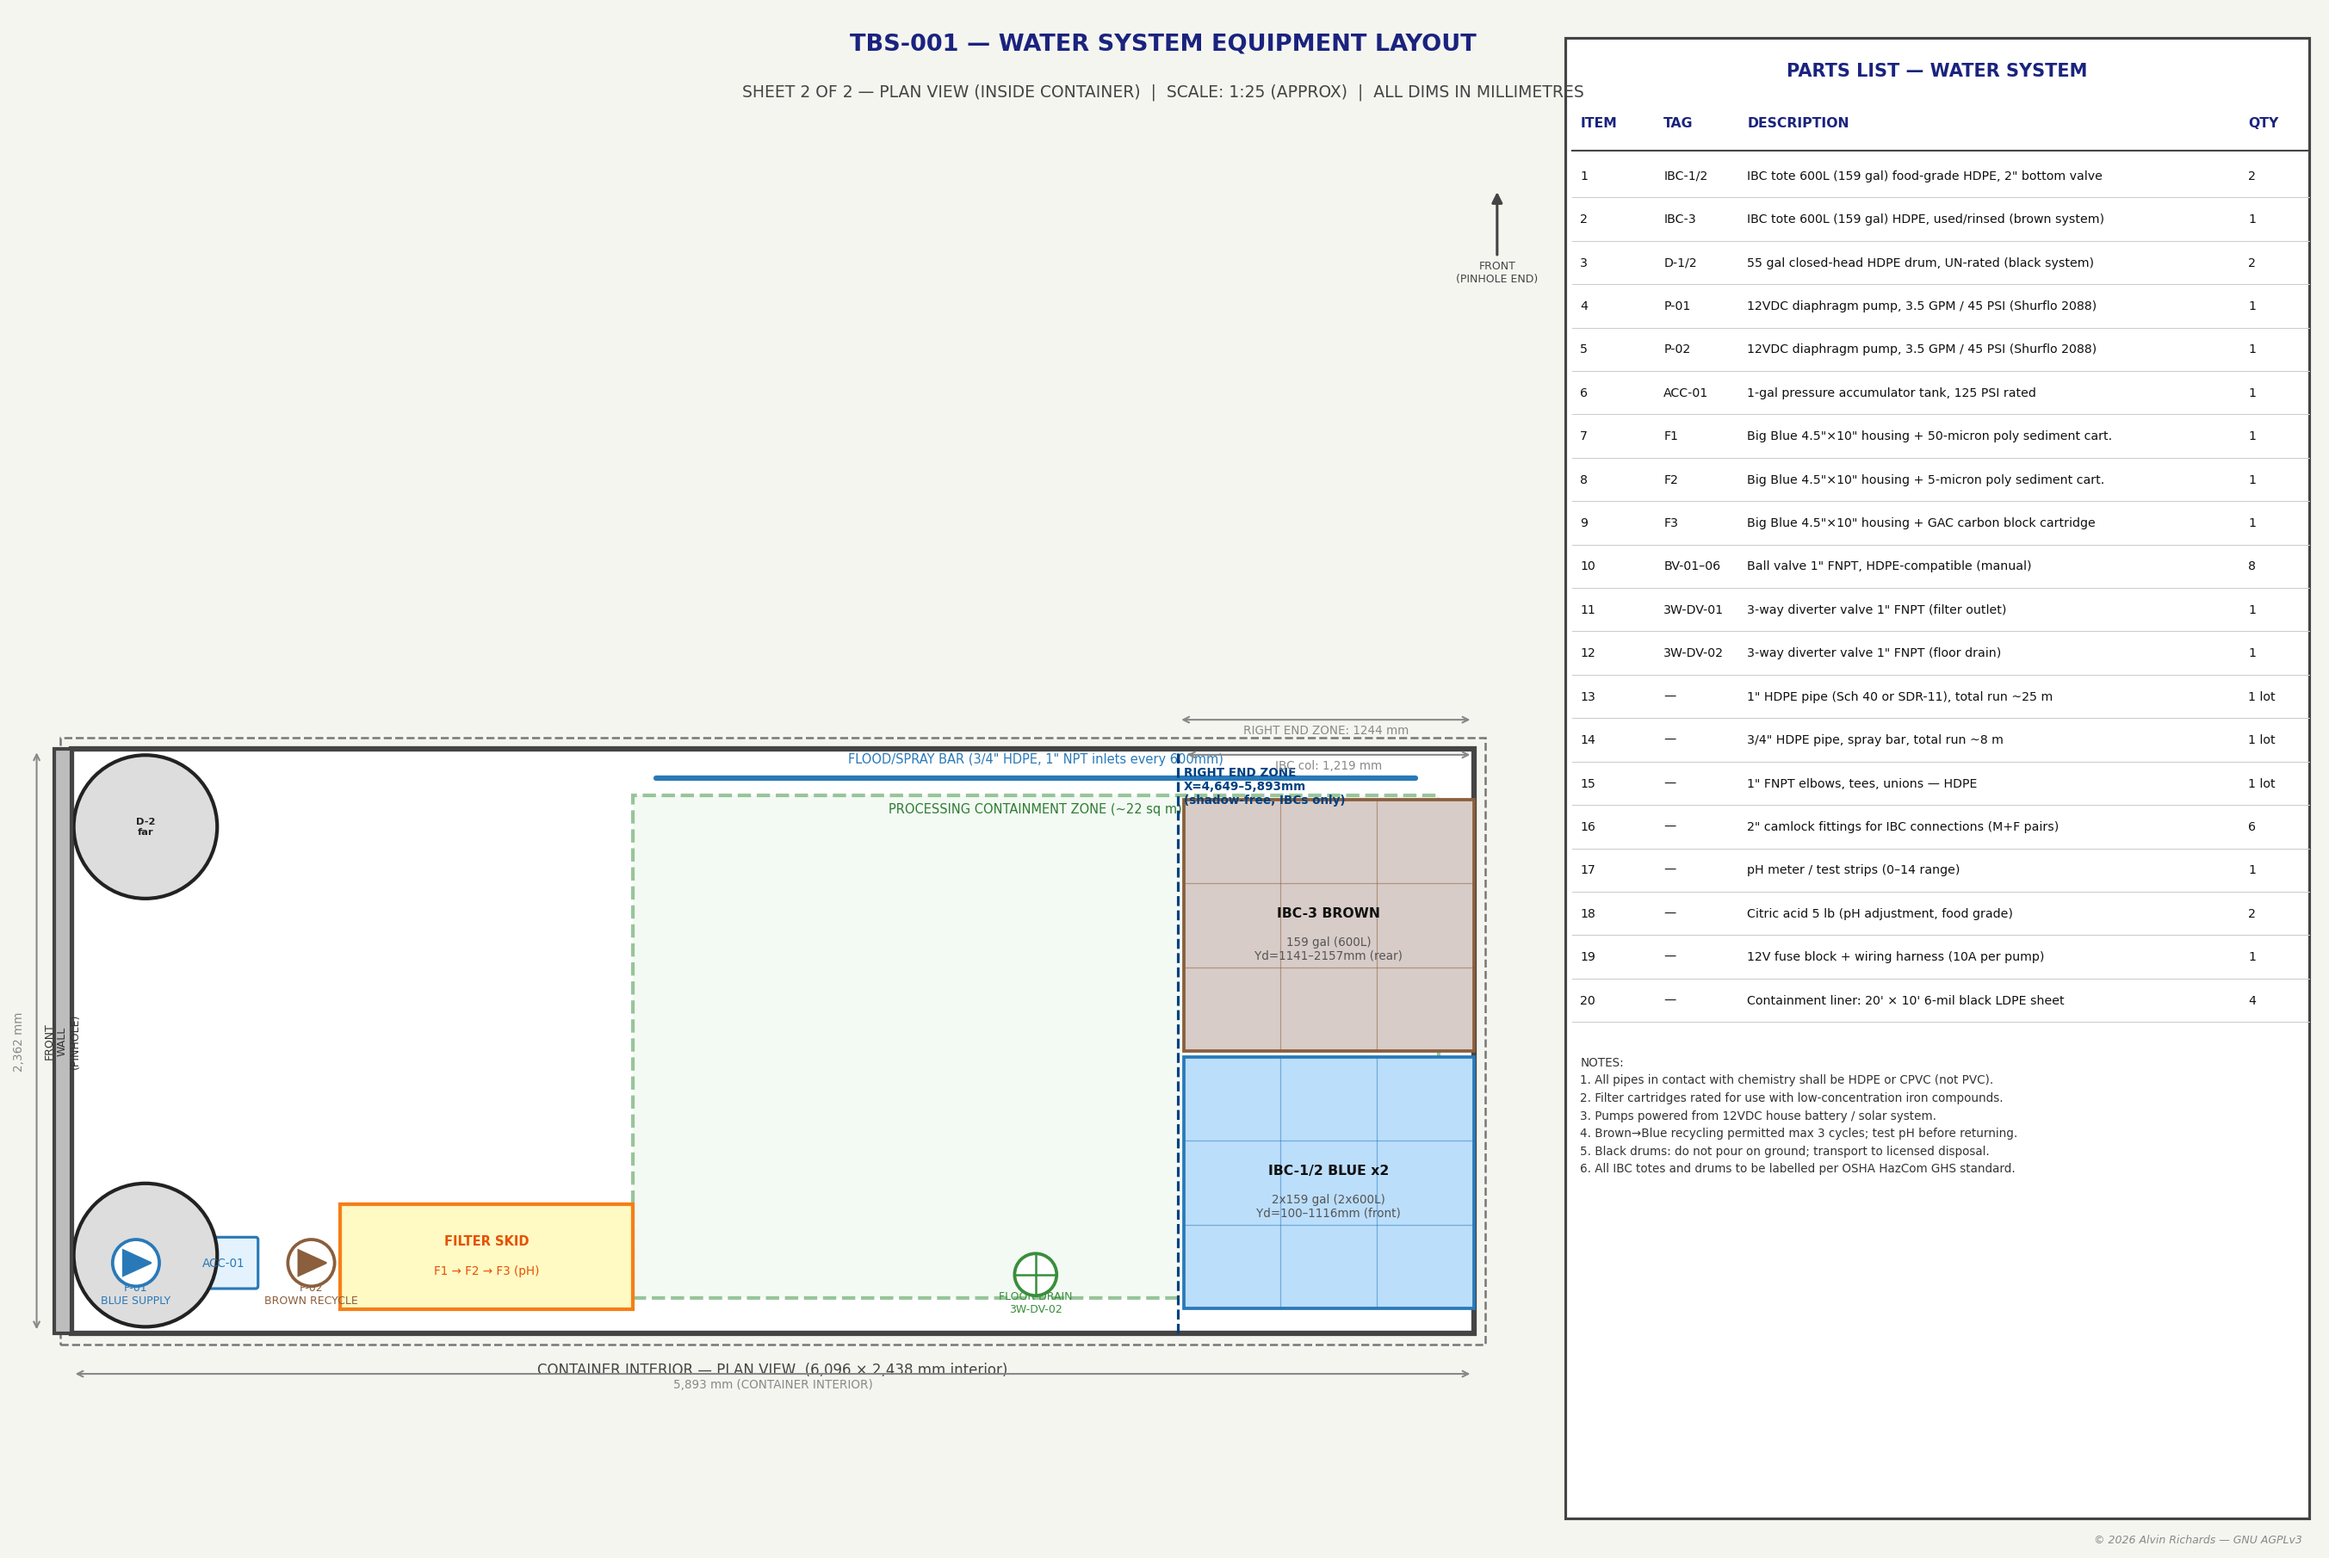
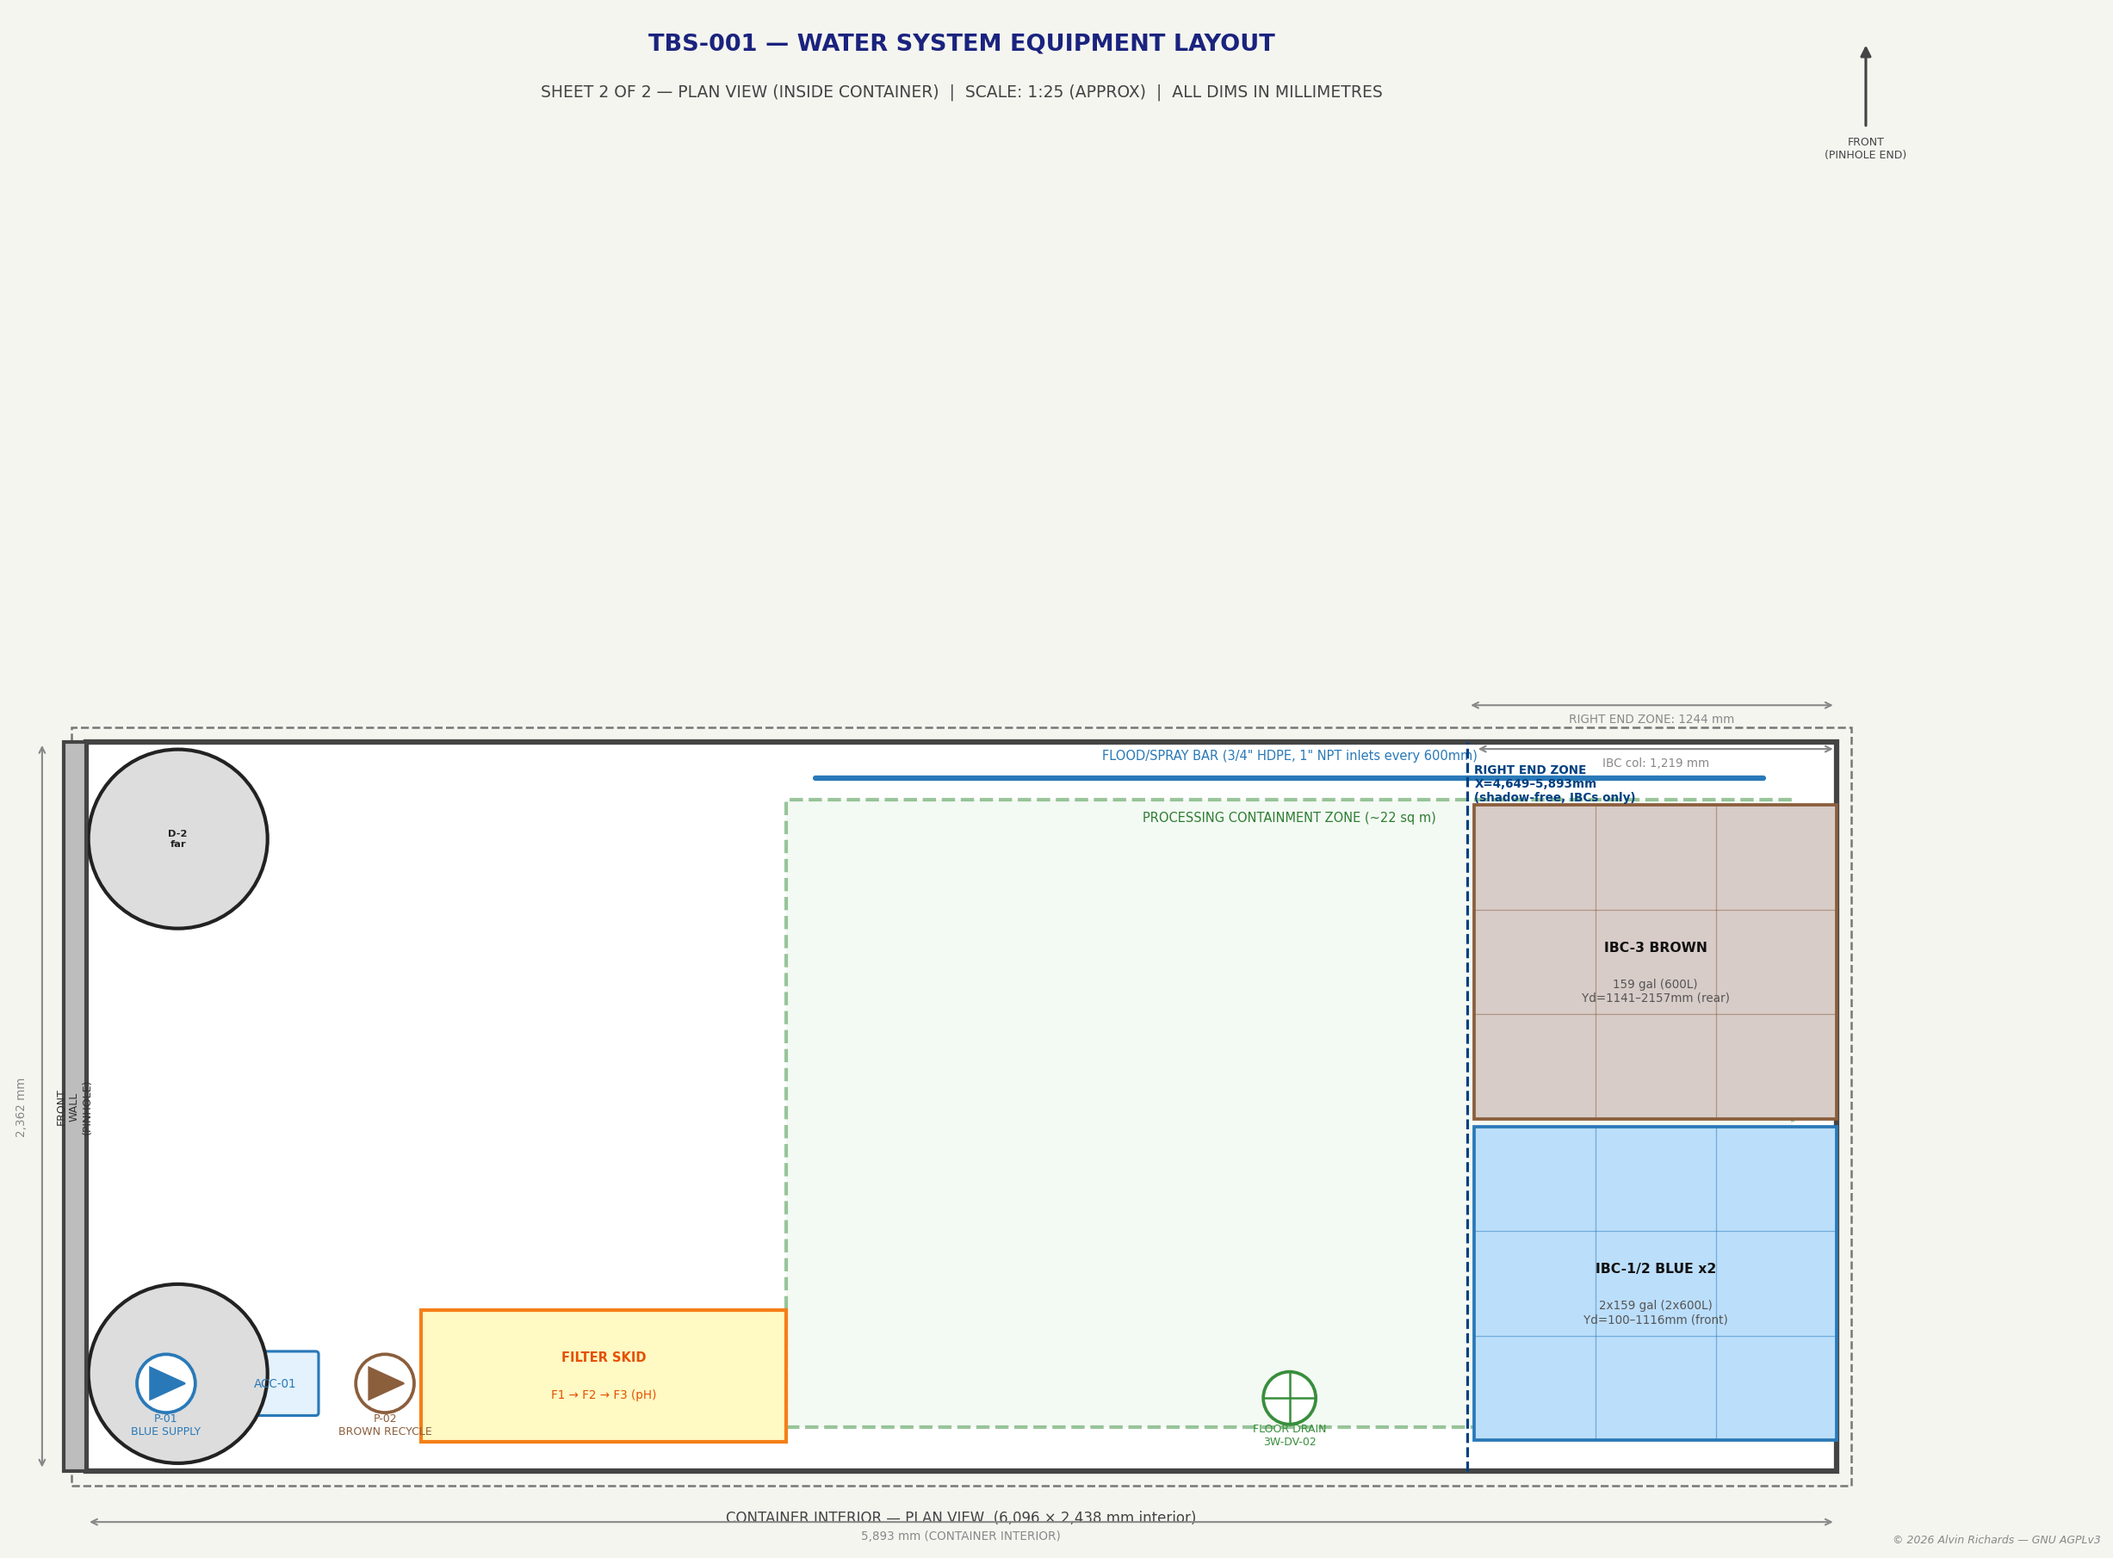
Remove parts list from water-system-sheet2; consolidate to master shopping list
Sheet 2 is now a full-width plan view only. The component list was
redundant with master-shopping-list.md §5. Added the one missing item
(6-mil LDPE containment liner, qty 4) to the master shopping list
water consumables section.

diff --git a/generate_water_system.py b/generate_water_system.py
@@ -421,16 +421,10 @@ print("Sheet 1 written → diagrams/water-system-sheet1.png")
 # SHEET 2 — TANK & FILTER SKID LAYOUT (PLAN VIEW — inside container)
 # ═══════════════════════════════════════════════════════════════════════════════
 
-fig2, axes = plt.subplots(1, 2, figsize=(18, 12),
-                           gridspec_kw={"width_ratios": [2, 1]})
+fig2, ax2 = plt.subplots(1, 1, figsize=(18, 12))
 fig2.patch.set_facecolor("#F5F5F0")
-
-ax2 = axes[0]  # plan view
-ax3 = axes[1]  # parts list / notes
-
-for a in [ax2, ax3]:
-    a.set_facecolor("#F5F5F0")
-    a.axis("off")
+ax2.set_facecolor("#F5F5F0")
+ax2.axis("off")
 
 # ── Title block ───────────────────────────────────────────────────────────────
 fig2.text(0.5, 0.97, "TBS-001 — WATER SYSTEM EQUIPMENT LAYOUT",
@@ -590,64 +584,6 @@ ax2.annotate("", xy=(12.2, 9.8), xytext=(12.2, 9.2),
                              mutation_scale=12))
 ax2.text(12.2, 9.0, "FRONT\n(PINHOLE END)", ha="center", fontsize=6,
          color=C_FRAME)
-
-# ── Parts list ────────────────────────────────────────────────────────────────
-ax3.set_xlim(0, 10)
-ax3.set_ylim(0, 12)
-
-ax3.add_patch(plt.Rectangle((0.1, 0.2), 9.8, 11.6, fc="white", ec=C_FRAME,
-                              lw=1.5, zorder=1))
-ax3.text(5.0, 11.5, "PARTS LIST — WATER SYSTEM", ha="center", fontsize=10,
-         fontweight="bold", color=C_TITLE, zorder=2)
-
-headers = ["ITEM", "TAG", "DESCRIPTION", "QTY"]
-col_x = [0.3, 1.4, 2.5, 9.1]
-header_y = 11.1
-for hdr, cx in zip(headers, col_x):
-    ax3.text(cx, header_y, hdr, fontsize=7.5, fontweight="bold", color=C_TITLE)
-ax3.plot([0.2, 9.9], [header_y - 0.18, header_y - 0.18], color=C_FRAME, lw=1)
-
-parts = [
-    # (item, tag, description, qty)
-    ("1",  "IBC-1/2",  "IBC tote 600L (159 gal) food-grade HDPE, 2\" bottom valve", "2"),
-    ("2",  "IBC-3",    "IBC tote 600L (159 gal) HDPE, used/rinsed (brown system)", "1"),
-    ("3",  "D-1/2",    "55 gal closed-head HDPE drum, UN-rated (black system)", "2"),
-    ("4",  "P-01",     "12VDC diaphragm pump, 3.5 GPM / 45 PSI (Shurflo 2088)", "1"),
-    ("5",  "P-02",     "12VDC diaphragm pump, 3.5 GPM / 45 PSI (Shurflo 2088)", "1"),
-    ("6",  "ACC-01",   "1-gal pressure accumulator tank, 125 PSI rated", "1"),
-    ("7",  "F1",       "Big Blue 4.5\"×10\" housing + 50-micron poly sediment cart.", "1"),
-    ("8",  "F2",       "Big Blue 4.5\"×10\" housing + 5-micron poly sediment cart.", "1"),
-    ("9",  "F3",       "Big Blue 4.5\"×10\" housing + GAC carbon block cartridge", "1"),
-    ("10", "BV-01–06", "Ball valve 1\" FNPT, HDPE-compatible (manual)", "8"),
-    ("11", "3W-DV-01", "3-way diverter valve 1\" FNPT (filter outlet)", "1"),
-    ("12", "3W-DV-02", "3-way diverter valve 1\" FNPT (floor drain)", "1"),
-    ("13", "—",        "1\" HDPE pipe (Sch 40 or SDR-11), total run ~25 m", "1 lot"),
-    ("14", "—",        "3/4\" HDPE pipe, spray bar, total run ~8 m", "1 lot"),
-    ("15", "—",        "1\" FNPT elbows, tees, unions — HDPE", "1 lot"),
-    ("16", "—",        "2\" camlock fittings for IBC connections (M+F pairs)", "6"),
-    ("17", "—",        "pH meter / test strips (0–14 range)", "1"),
-    ("18", "—",        "Citric acid 5 lb (pH adjustment, food grade)", "2"),
-    ("19", "—",        "12V fuse block + wiring harness (10A per pump)", "1"),
-    ("20", "—",        "Containment liner: 20' × 10' 6-mil black LDPE sheet", "4"),
-]
-
-row_y = header_y - 0.38
-for item in parts:
-    for txt, cx in zip(item, col_x):
-        ax3.text(cx, row_y, txt, fontsize=6.8, color=C_TEXT, va="center")
-    ax3.plot([0.2, 9.9], [row_y - 0.17, row_y - 0.17],
-             color="#CCCCCC", lw=0.5)
-    row_y -= 0.34
-
-ax3.text(0.3, row_y - 0.1,
-         "NOTES:\n"
-         "1. All pipes in contact with chemistry shall be HDPE or CPVC (not PVC).\n"
-         "2. Filter cartridges rated for use with low-concentration iron compounds.\n"
-         "3. Pumps powered from 12VDC house battery / solar system.\n"
-         "4. Brown→Blue recycling permitted max 3 cycles; test pH before returning.\n"
-         "5. Black drums: do not pour on ground; transport to licensed disposal.\n"
-         "6. All IBC totes and drums to be labelled per OSHA HazCom GHS standard.",
-         fontsize=6.5, color="#333", va="top", linespacing=1.6)
 
 plt.tight_layout(pad=0.5)
 fig2.text(0.99, 0.005, "© 2026 Alvin Richards — GNU AGPLv3",

diff --git a/master-shopping-list.md b/master-shopping-list.md
@@ -216,7 +216,9 @@ Items are grouped by build area. Source documents are cross-referenced in each s
 | Chemical-resistant GHS labels | For drums and totes | 1 pack | Amazon / Labelmaster | $20 |
 | Funnel with filter screen 2" | For drum filling | 2 | Amazon / Grainger | $18 |
 
-**Water consumables subtotal: ~$130**
+| Containment liner, 6-mil black LDPE | 20' × 10' sheet — secondary spill containment under IBCs and filter skid | 4 | Amazon / US Plastic Corp | $18–$28/sheet | $75–$110 |
+
+**Water consumables subtotal: ~$205–$240**
 
 **Section total: $1,457–$2,072**
 
